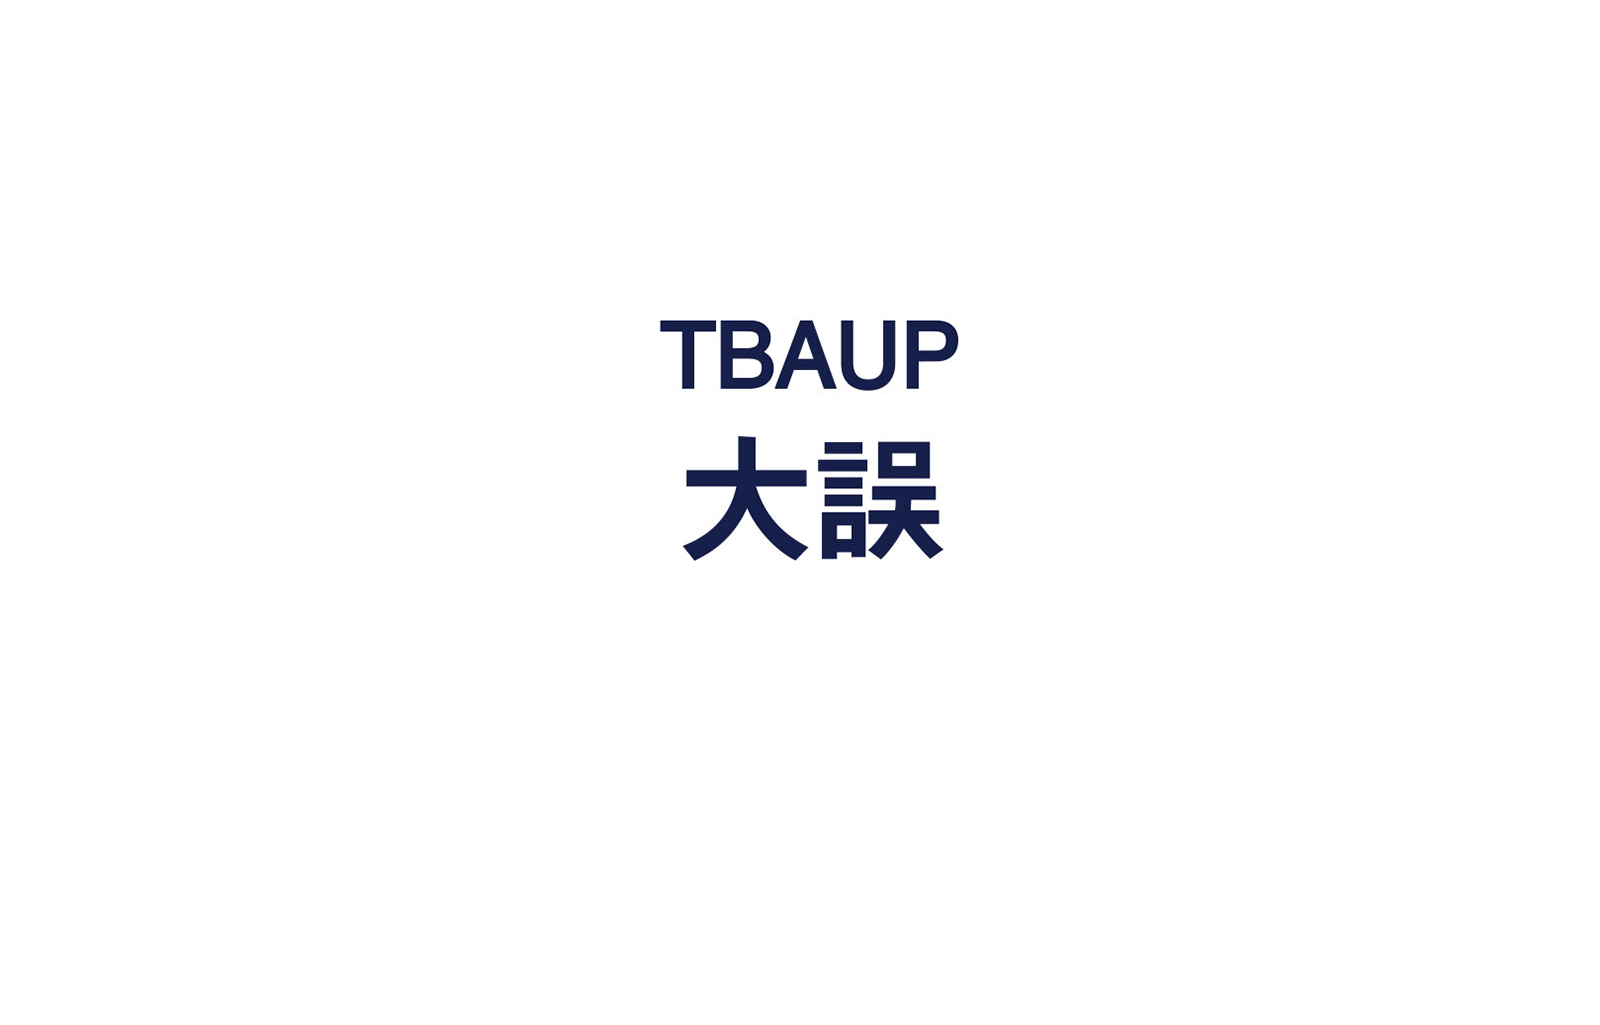
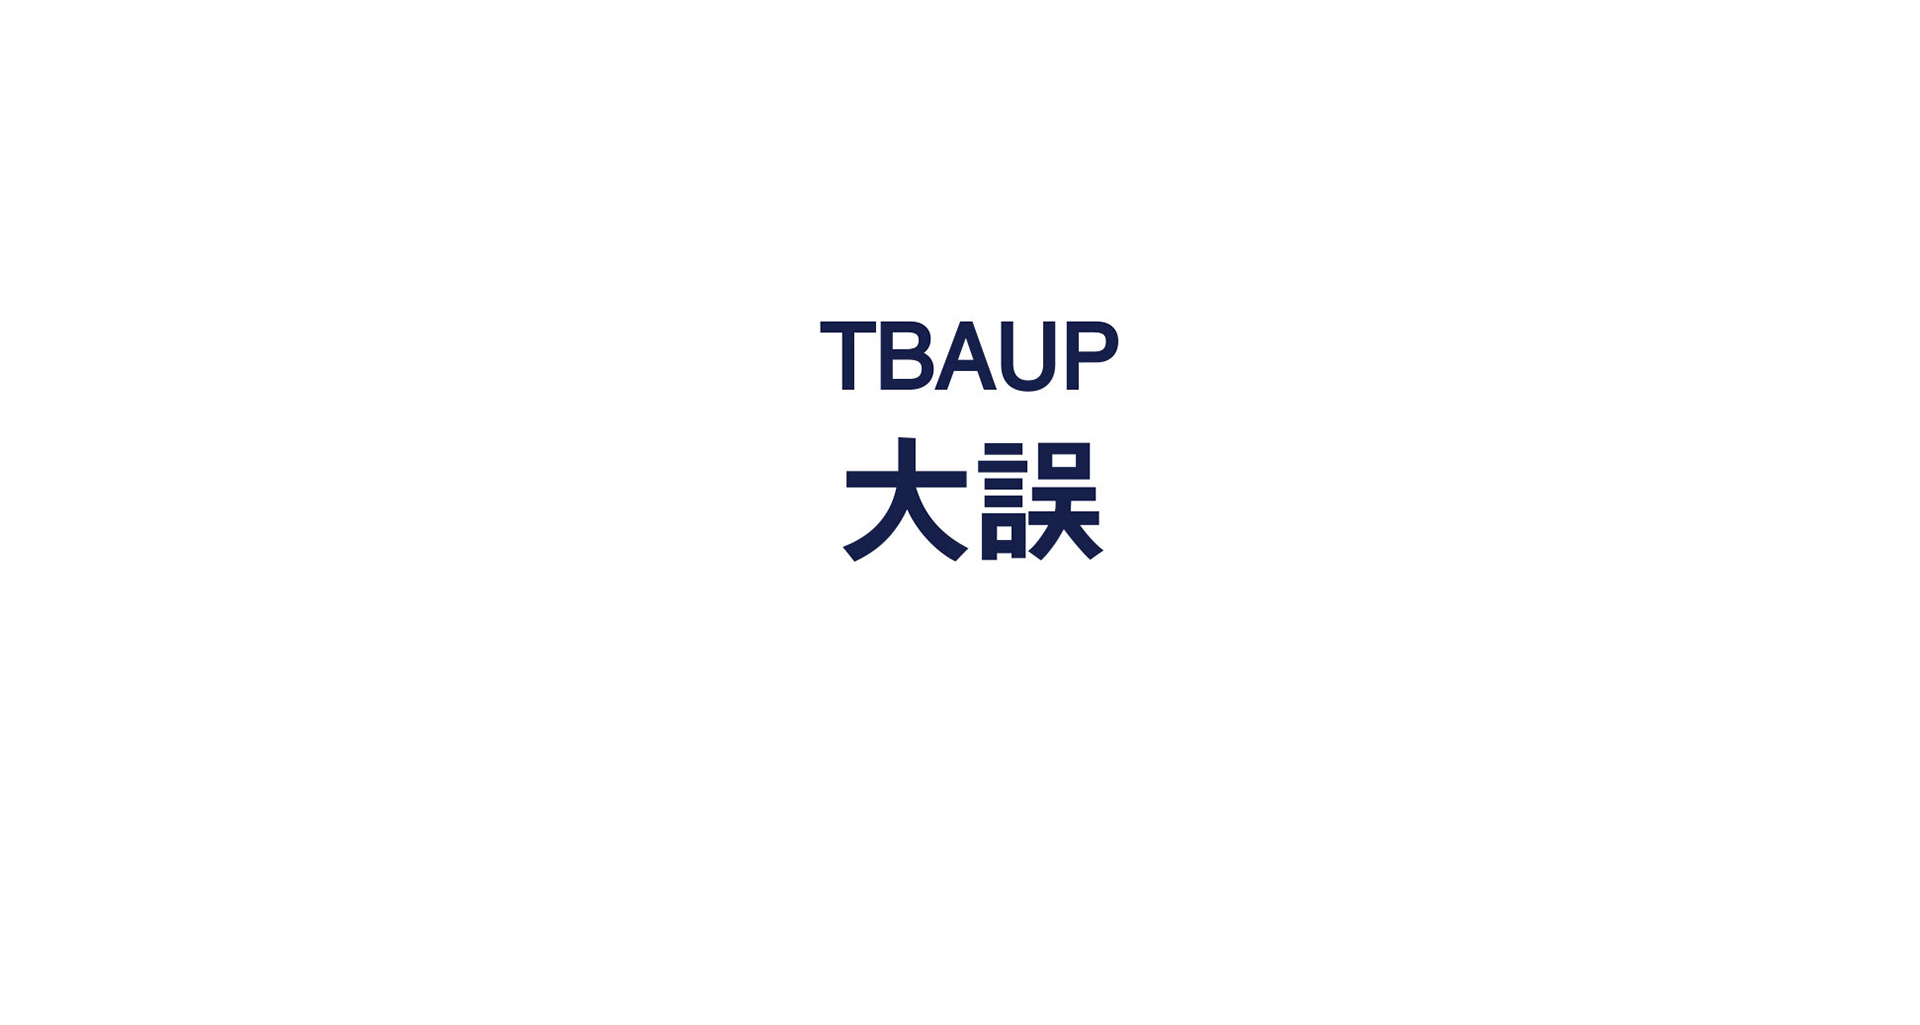
大误

Changed region(s): [[0.4062, 0.3122, 0.625, 0.562]]

diff --git a/application/home/view/index/index.html b/application/home/view/index/index.html
@@ -99,13 +99,13 @@
 			<div class="banner-wrap">
 				<ul>
 					<li class="part part1">
-						<img src="__STATIC__/home/images/b11.jpg" data-width="1600" data-height="1025" alt="">
+						<img src="__STATIC__/home/images/b11.jpg" data-width="1920" data-height="1025" alt="">
 					</li>
 					<li class="part part2">
-						<img src="__STATIC__/home/images/b12.jpg" data-width="1600" data-height="1025" alt="">
+						<img src="__STATIC__/home/images/b12.jpg" data-width="1920" data-height="1025" alt="">
 					</li>
 					<li class="part part3">
-						<img src="__STATIC__/home/images/b13.jpg" data-width="1600" data-height="1025" alt="">
+						<img src="__STATIC__/home/images/b13.jpg" data-width="1920" data-height="1025" alt="">
 					</li>
 				</ul>
 			</div>
